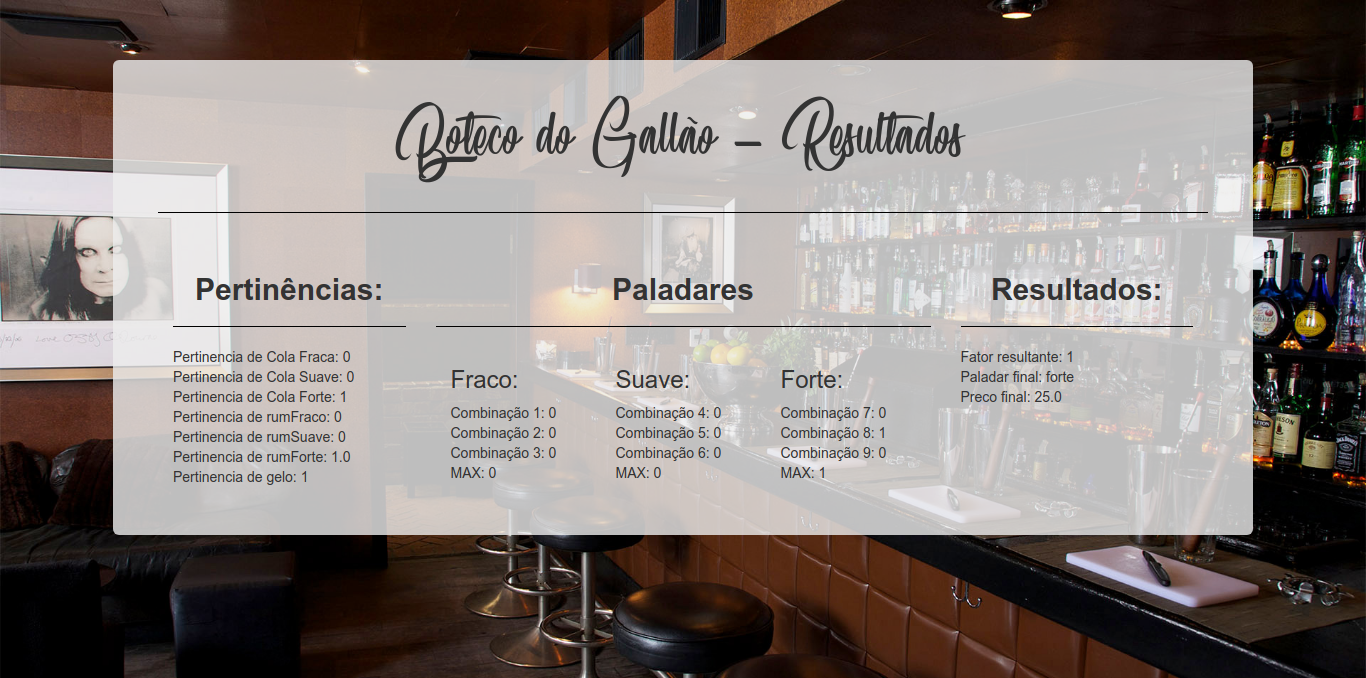
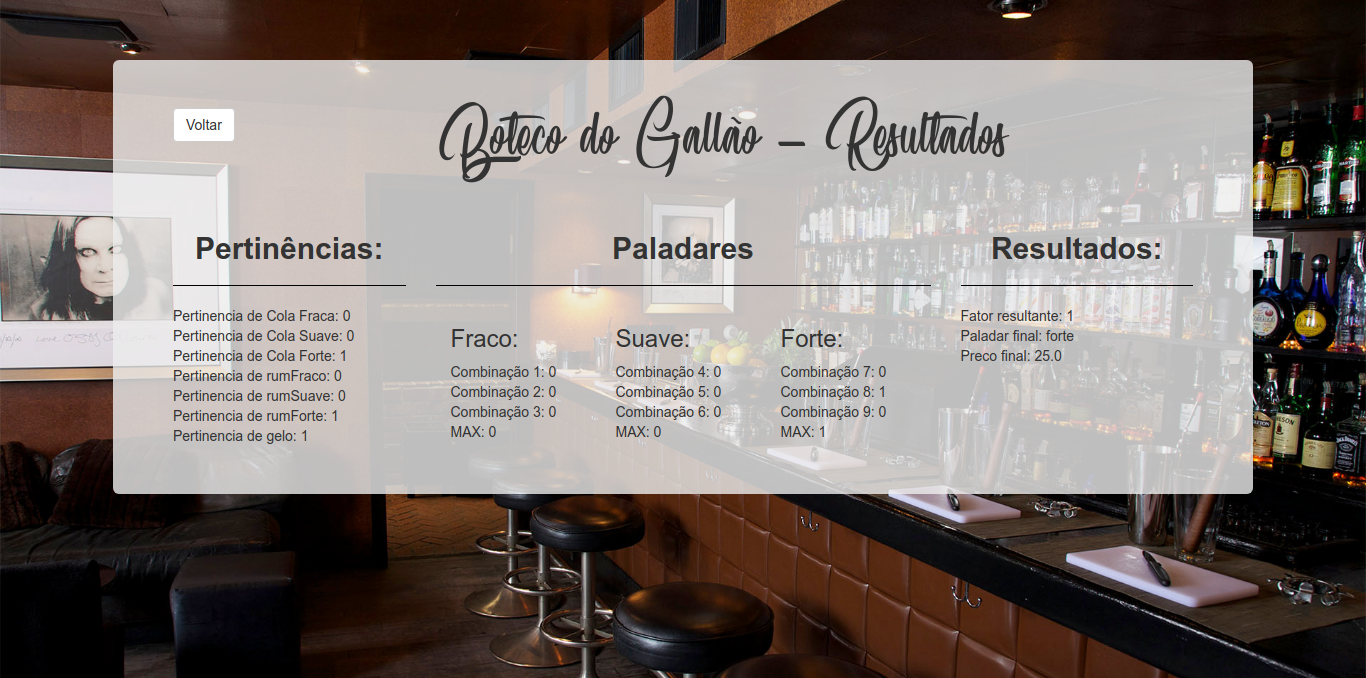
Posicionamento das msg de erro e botão voltar

diff --git a/templates/index.html b/templates/index.html
@@ -6,16 +6,6 @@
 
 {% block page_content %}
 
-    {% for message in get_flashed_messages() %}
-        <div class="alert alert-warning">
-            <button type="button" class="close" data-dismiss="alert">
-                &times;
-            </button>
-            {{ message }}
-        </div>
-
-    {% endfor %}
-
     <br>
     <br>
     <br>
@@ -26,6 +16,17 @@
             <br>
         </div>
         <div class="row">
+
+            {% for message in get_flashed_messages() %}
+                <div class="alert alert-warning">
+                    <button type="button" class="close" data-dismiss="alert">
+                        &times;
+                    </button>
+                    {{ message }}
+                </div>
+        
+            {% endfor %}
+            
             <div class="col-md-4 col-md-offset-1">
                 {{ wtf.quick_form(form) }}
             </div>

diff --git a/templates/result.html b/templates/result.html
@@ -11,7 +11,12 @@
 <br>
 <div class="jumbotron">
     <div class="row">
-        <h1>Boteco do Gallão - Resultados</h1>
+        <div class="col-md-1">
+            <button onclick="history.back()" class="btn btn-default">Voltar</button>
+        </div>
+        <div class="col-md-11">
+            <h1>Boteco do Gallão - Resultados</h1>
+        </div>
         <hr>
         <br>
     </div>
